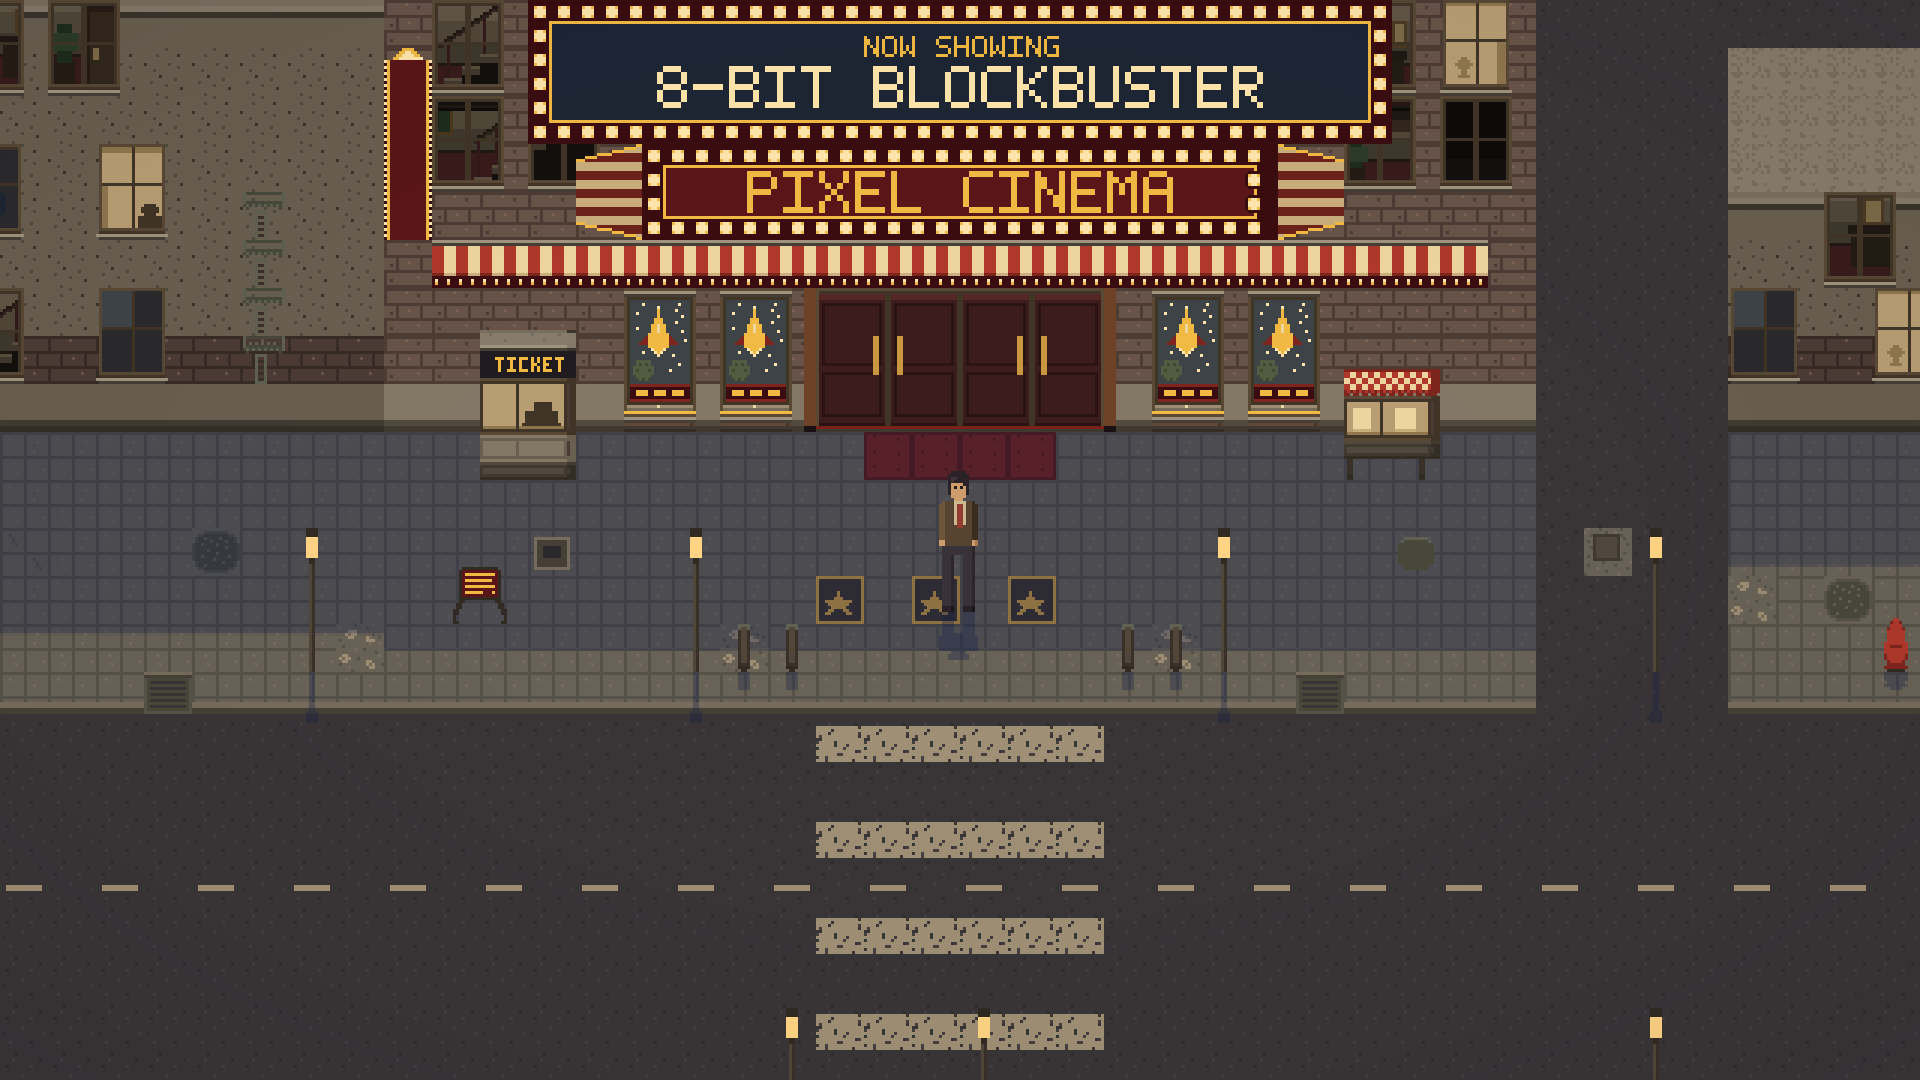
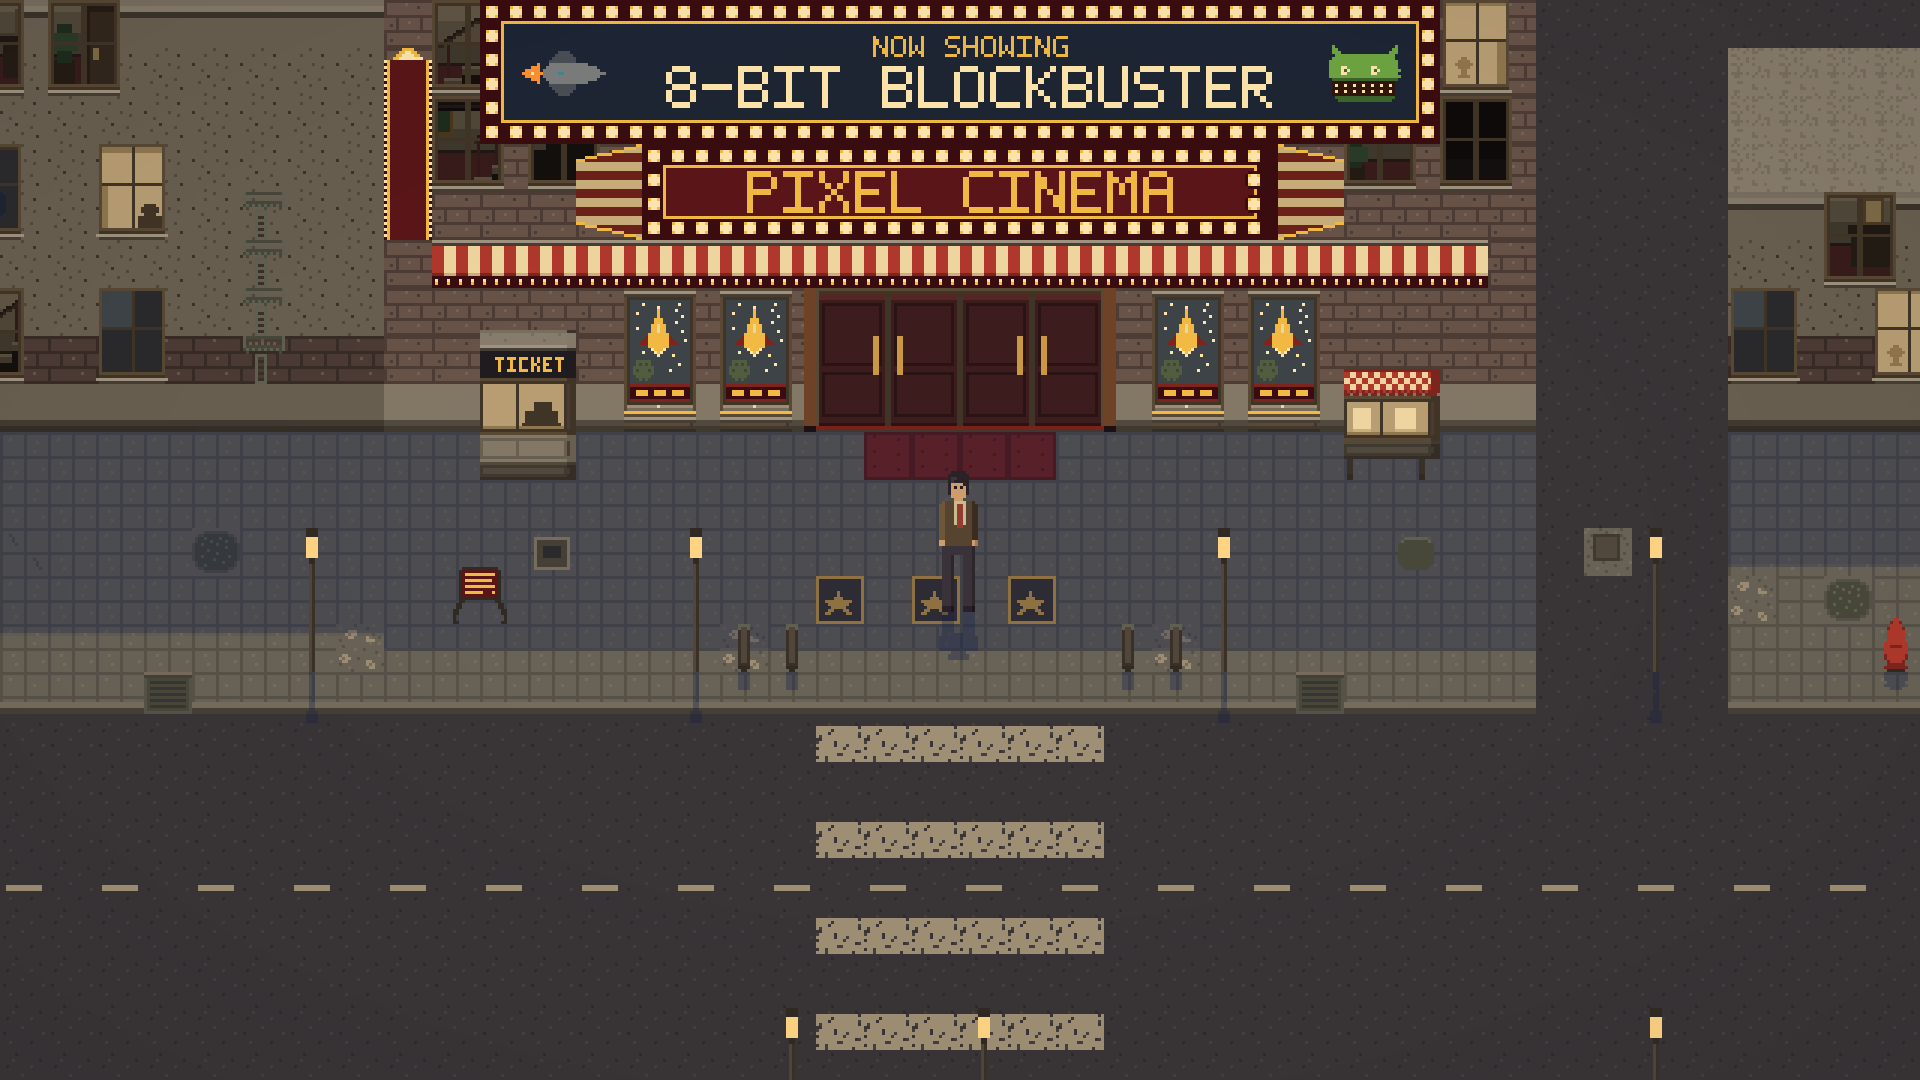
Put the film on the reader board, not just its name
The reference's board carries a spaceship and a green kaiju either side of the
title. Ours had the words and nothing else, which was the last piece of that
image still missing.

A panel takes an optional `art` list now -- `{tile, at: 'left'|'right'}` --
and two new atlas frames supply it. Poster art is the one place in the tile
set allowed a cartoon register: every other tile is a building material and
answers to the street's neutral palette, while a poster is a picture of
something else, printed and hung up, and the reference leans on exactly that
contrast. The colours are digits because every letter in TILE_PALETTE is
spoken for.

Text now centres in what the art leaves rather than in the board, or a
spaceship at one end shoves the title visibly off-centre the other way. That
same reservation goes through `signFieldWidth`, so the loader validates a name
against the room it will actually have -- it caught this immediately, with
"8-BIT BLOCKBUSTER" needing 202px against 200 available, which is why the
reader board is 20 tiles now (and wider than the name board, as it is in the
reference). `signArtPad` takes a `sizeOf` function rather than reaching for
the atlas itself, so sign.js keeps its one real property: it does the sign
arithmetic and never touches Phaser.

Two passes on the ship before it read. Authored near-white it clipped to a
flat blob with its fins merged into its hull -- the board is a lit surface
[…]

Changed region(s): [[0.3438, 0.0306, 0.6562, 0.1222], [0.6875, 0.0, 0.75, 0.1528], [0.25, 0.0, 0.3125, 0.1528]]

diff --git a/src/game/tilemap/sign.js b/src/game/tilemap/sign.js
@@ -78,13 +78,39 @@ export function signLines(p) {
   }));
 }
 
+/**
+ * How much width a board's poster art takes off each end of its text field.
+ *
+ * `sizeOf` is passed in rather than looked up here, so this file keeps its one
+ * real property: it does the sign arithmetic and never reaches Phaser. The
+ * renderer hands it the live atlas; the loader hands it the same atlas when it
+ * has a scene, and a stub returning null when it does not, in which case a
+ * board simply validates as though it carried no art -- the structural tests
+ * run without a browser and have no frames to measure.
+ *
+ * @param {{art?: {tile: string, at?: 'left'|'right'}[]}} panel
+ * @param {(tile: string) => {w: number, h: number} | null | undefined} sizeOf
+ */
+export function signArtPad(panel, sizeOf) {
+  let left = 0, right = 0;
+  for (const a of panel.art ?? []) {
+    const w = sizeOf(a.tile)?.w;
+    if (!w) continue;
+    if (a.at === 'right') right = Math.max(right, w + SIGN_TEXT_MARGIN);
+    else left = Math.max(left, w + SIGN_TEXT_MARGIN);
+  }
+  return { left, right };
+}
+
 /** Pixel width actually available to text on a board `fw` tiles wide, once
- *  its bulb frame, end margins and any angled returns are taken out. The
- *  splay has to be in here and not only in the renderer: this is the number
- *  mapLoader validates a name against before anything is drawn, and a board
- *  that splays has genuinely less room for its text. */
-export function signFieldWidth(fw, splay = 0) {
-  return fw * TILE - splay * 2 - BULB * 2 - SIGN_TEXT_MARGIN * 2;
+ *  its bulb frame, end margins, angled returns and poster art are taken out.
+ *  All of it has to be in here and not only in the renderer: this is the
+ *  number mapLoader validates a name against before anything is drawn, and a
+ *  board that splays, or that carries a spaceship at one end, has genuinely
+ *  less room for its text. */
+export function signFieldWidth(fw, splay = 0, artPad = { left: 0, right: 0 }) {
+  return fw * TILE - splay * 2 - BULB * 2 - SIGN_TEXT_MARGIN * 2
+    - artPad.left - artPad.right;
 }
 
 /** Pixel height a normalised line list occupies as a block. */

diff --git a/src/game/tilemap/renderer.js b/src/game/tilemap/renderer.js
@@ -32,7 +32,7 @@ import { preloadTiles, tilesReady, bake, frameSize, frameOpening, TILES_KEY } fr
 import { measureWidth, CHAR_H } from './font.js';
 import {
   BULB, SIGN_LINE_GAP, SIGN_GOLD, SIGN_FIELD_COLOR, SIGN_BACK_COLOR,
-  signLines, signBlockHeight, signLineWidth,
+  signLines, signBlockHeight, signLineWidth, signArtPad, SIGN_TEXT_MARGIN,
   SIGN_SPLAY_TAPER, SIGN_SPLAY_BAND, SIGN_SPLAY_LIGHT, SIGN_SPLAY_DARK, SIGN_SPLAY_EDGE,
 } from './sign.js';
 import { ShadowLayer } from './shadows.js';
@@ -809,11 +809,28 @@ export class TileMapRenderer {
     for (let x = lastX; x >= x0; x -= BULB) at(x, h - BULB);
     for (let y = h - BULB * 2; y >= BULB; y -= BULB) at(x0, y);
 
+    // Poster art, inside the bulb frame at either end and vertically centred.
+    // Measured with the same helper the loader validates against, so a board
+    // that fits its name at load time still fits it once drawn.
+    const pad = signArtPad(p, (t) => frameSize(this.scene, t));
+    for (const a of p.art ?? []) {
+      const sz = frameSize(this.scene, a.tile);
+      if (!sz) continue;
+      const ax = a.at === 'right'
+        ? x0 + bw - BULB - SIGN_TEXT_MARGIN - sz.w
+        : x0 + BULB + SIGN_TEXT_MARGIN;
+      g.tile(a.tile, ax, Math.round((h - sz.h) / 2));
+    }
+
     const lines = signLines(p);
     if (!lines.length) return bulbs;
+    // Text centres in what the art leaves, not in the board -- otherwise a
+    // spaceship at one end shoves the title visibly off-centre the other way.
+    const tx0 = x0 + BULB + pad.left;
+    const tw = bw - BULB * 2 - pad.left - pad.right;
     let ty = Math.round((h - signBlockHeight(lines)) / 2);
     for (const l of lines) {
-      g.text(l.text, x0 + Math.round((bw - signLineWidth(l)) / 2), ty, l.scale, l.color, l.font);
+      g.text(l.text, tx0 + Math.round((tw - signLineWidth(l)) / 2), ty, l.scale, l.color, l.font);
       ty += (signBlockHeight([l])) + SIGN_LINE_GAP;
     }
     return bulbs;

diff --git a/src/game/tilemap/mapLoader.js b/src/game/tilemap/mapLoader.js
@@ -37,8 +37,8 @@
 // stopping at the first one -- a hand-edited file is likely to have more
 // than one mistake at a time and deserves to hear about all of them.
 
-import { TILES_KEY } from './atlas.js';
-import { signLines, signFieldWidth, signLineWidth } from './sign.js';
+import { TILES_KEY, frameSize } from './atlas.js';
+import { signLines, signFieldWidth, signLineWidth, signArtPad } from './sign.js';
 
 const LAYER_ROLES = ['ground', 'flat', 'object', 'overhead'];
 
@@ -147,7 +147,10 @@ export function loadCityMap(raw, scene) {
    */
   const checkSignText = (label, panel, bandTiles) => {
     const lines = signLines(panel);
-    const avail = signFieldWidth(bandTiles, panel.splay ?? 0);
+    // Without a scene there are no frames to measure, so a board validates as
+    // though it carried no art -- see signArtPad.
+    const sizeOf = scene ? (t) => frameSize(scene, t) : () => null;
+    const avail = signFieldWidth(bandTiles, panel.splay ?? 0, signArtPad(panel, sizeOf));
     lines.forEach((line, i) => {
       const where = lines.length > 1 ? `${label}.lines[${i}]` : label;
       if (typeof line.text !== 'string' || !line.text.length) {
